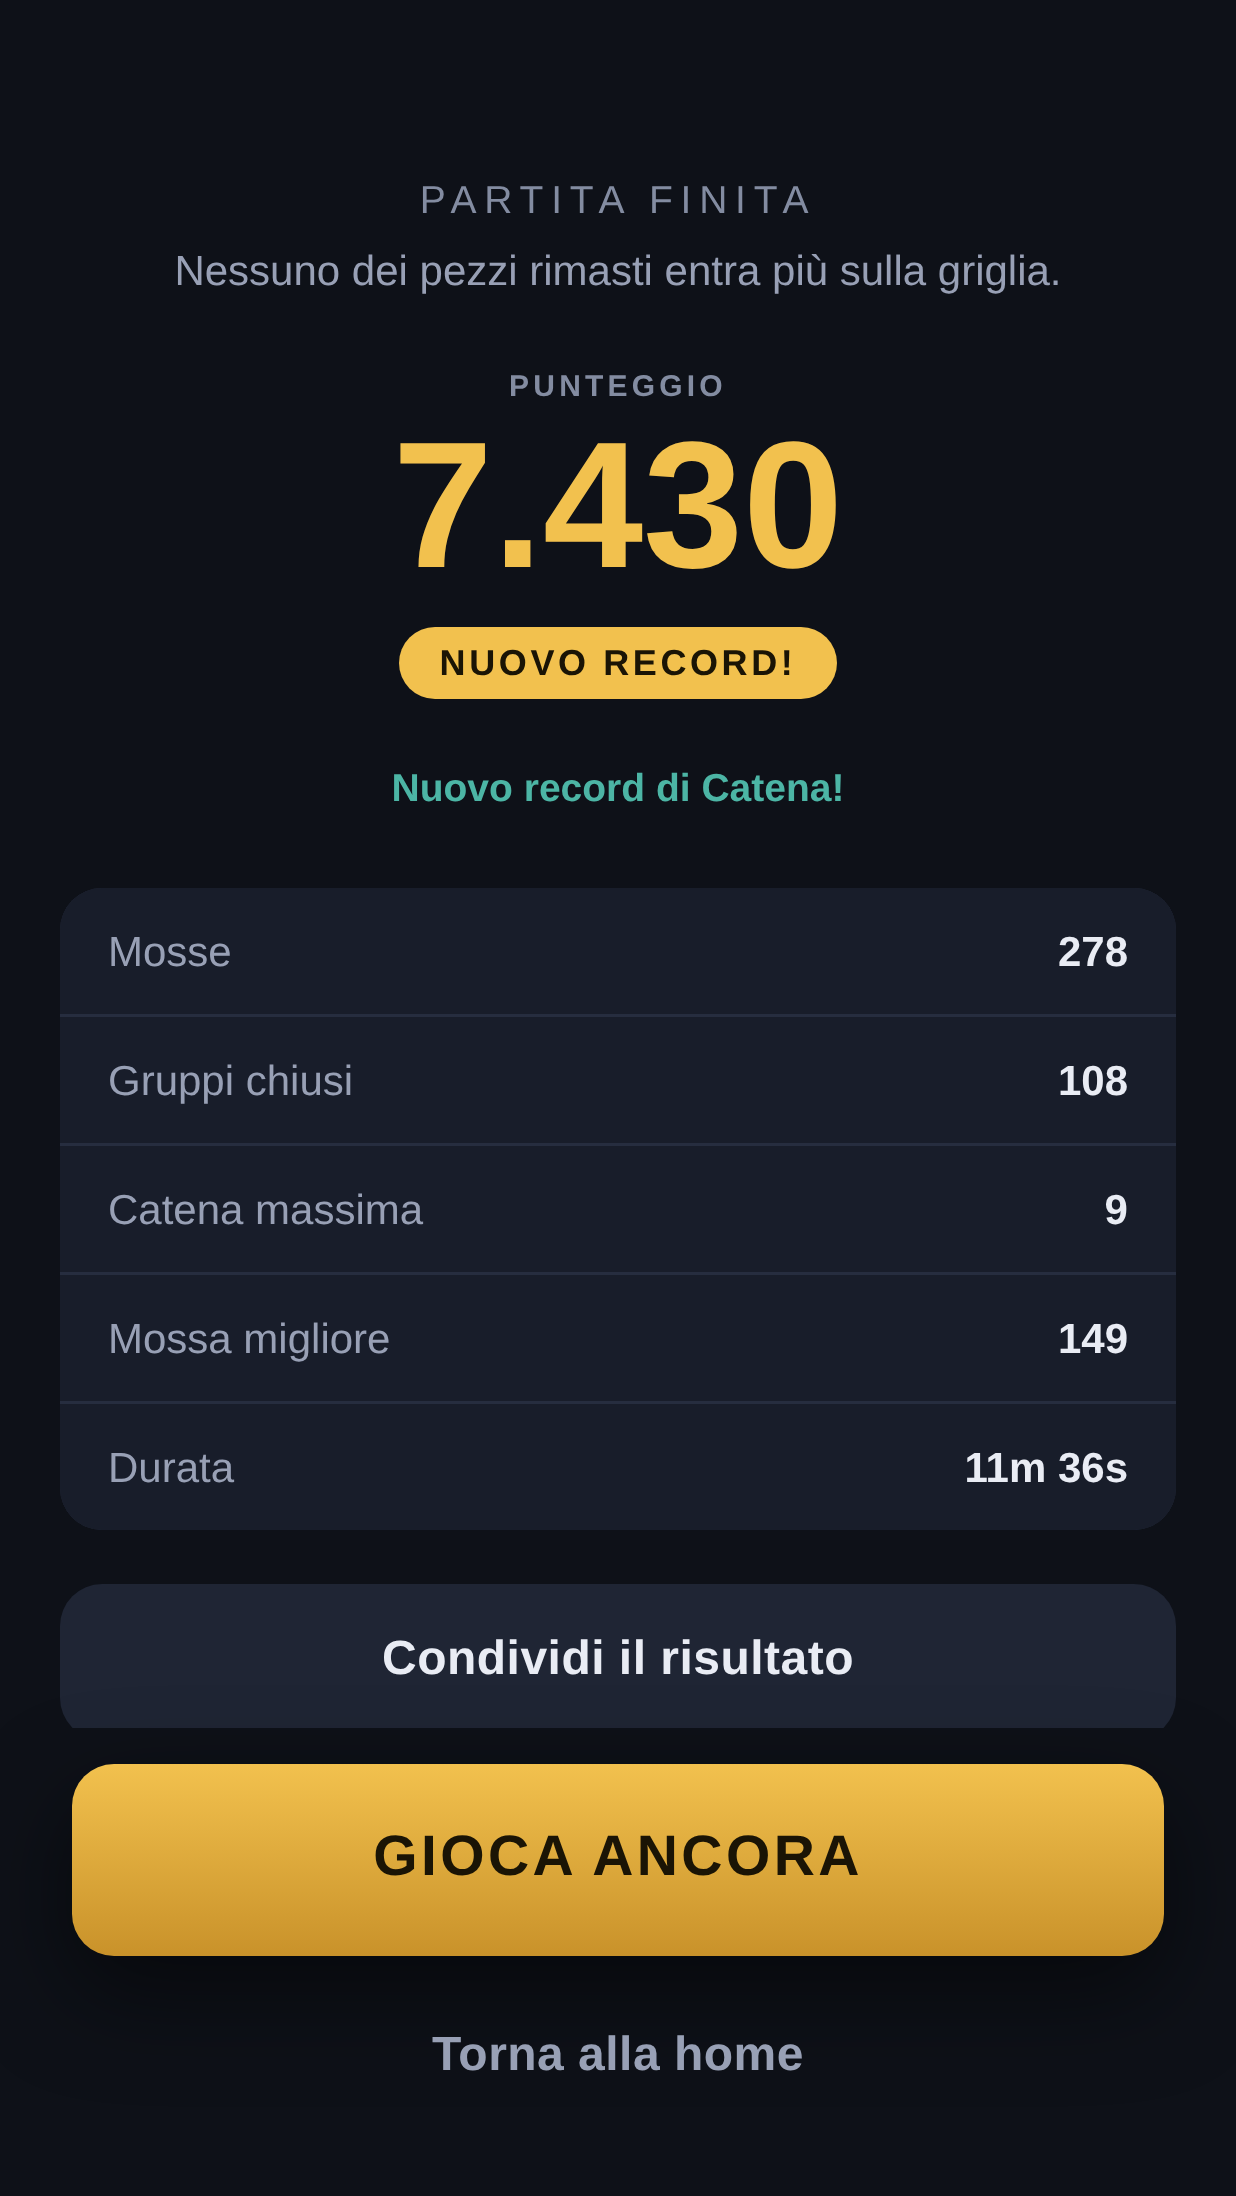
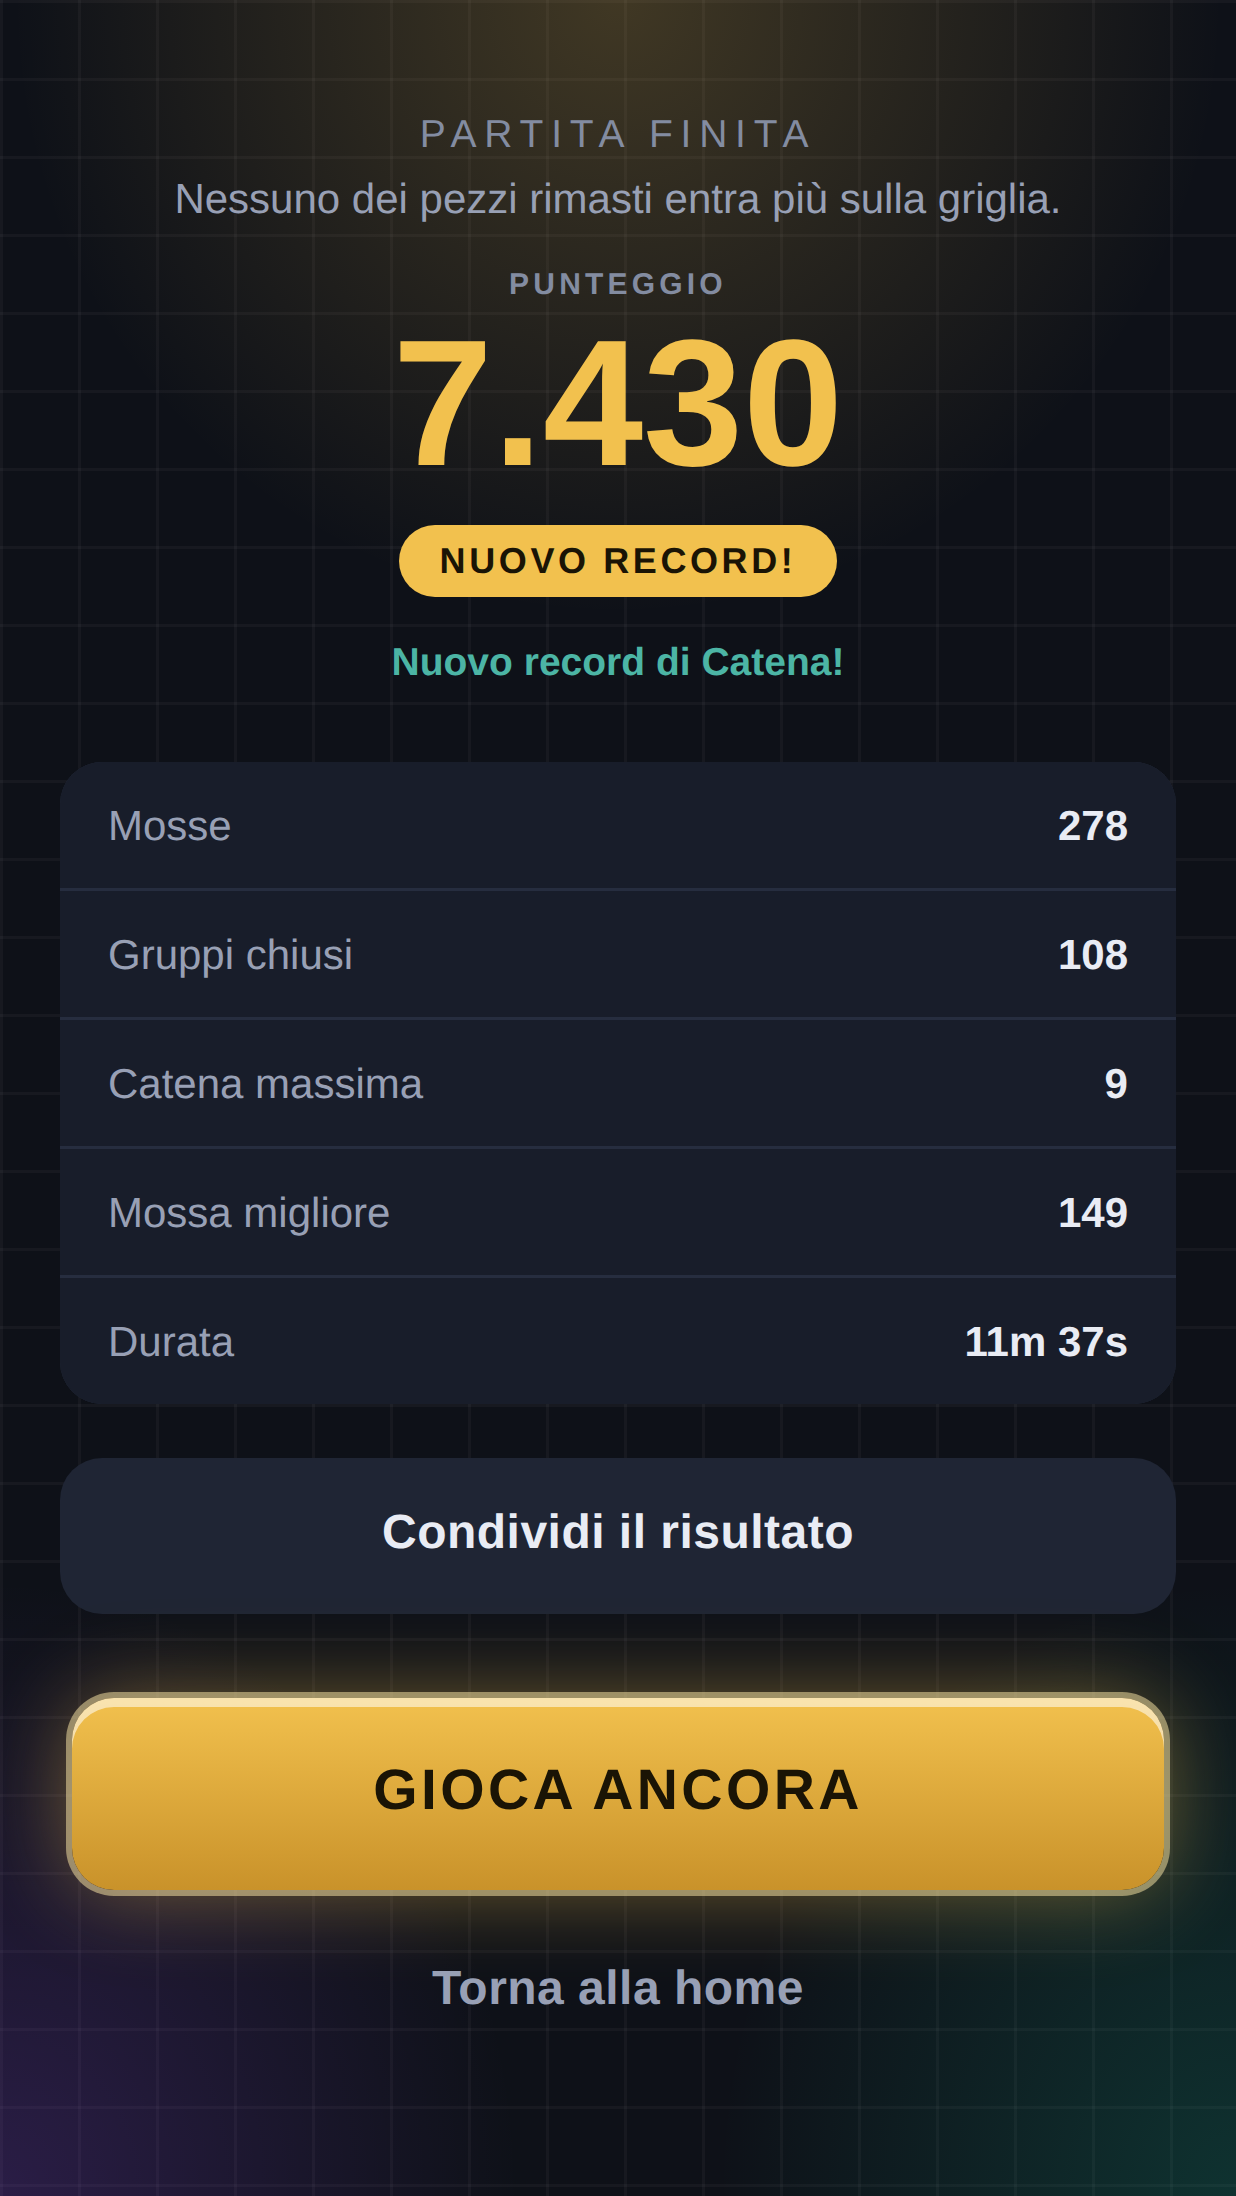
Scheda del Play Store per la 1.21.0: schermate con la grafica nuova e testi
- Otto schermate rigenerate sul Ponte; quella dell'Intreccio si scatta a orologio
  fermo (dal ramo della Torre) e lo strumento si ferma se la scritta manca.
- Descrizioni IT/EN: la regola dell'ultimo livello e l'Intreccio che si vede.
- Note di rilascio della 1.21.0, IT/EN, entro i 500 caratteri.

Claude-Session: https://claude.ai/code/session_01GFoFz1oYDGgk1JF4CCyFX7

diff --git a/android/SCHEDA-PLAY-STORE.md b/android/SCHEDA-PLAY-STORE.md
@@ -7,7 +7,9 @@ Scheda principale dello Store. Nomi delle voci letti dalla console dell'11 sette
 Google li rinomina ogni tanto. L'AAB invece sta sotto **Testa e rilascia**, ed e' un'altra
 revisione: aggiornare testi e immagini NON richiede un rilascio nuovo.
 
-**Stato dei testi.** Riscritti l'11 settembre 2026, con la versione 1.9.1. La stesura
+**Stato dei testi.** Ritoccati il 10 ottobre 2026 per la 1.21.0: la regola dell'ultimo
+livello (1.20.0) e l'Intreccio che ora si vede. Riscritti per intero l'11 settembre 2026,
+con la versione 1.9.1. I testi per l'uscita della Torre stanno sul ramo `opera-torre`. La stesura
 precedente era ferma a prima delle bombe, della Tinta, dell'anteprima della terna,
 dell'archivio delle sfide, delle statistiche e della condivisione: raccontava un gioco
 piu' piccolo di quello che si scarica. I cento livelli sono stati portati in apertura,
@@ -50,13 +52,13 @@ Righe, colonne e quadranti. Niente pubblicità, niente acquisti, niente conti.
 PLINTO è un puzzle a blocchi con una regola in più: oltre alle righe e alle colonne si eliminano anche i quadranti 3×3. Tre direzioni invece di due, e una mossa che ne chiude più di uno insieme vale molto di più.
 
 CENTO LIVELLI, MISURATI E NON INVENTATI
-I cento livelli formano un percorso in sette atti, dalle Fondamenta all'Ultima pietra. Ognuno ha un obiettivo dichiarato e un tetto di mosse, e dal quarto atto in poi alcuni ne chiedono due insieme. I bersagli non li ha scelti nessuno a occhio: ogni livello viene giocato venti volte da un giocatore simulato, deve riuscire almeno sei volte, e ogni atto ha una sua fascia di difficoltà, che sale lungo il percorso. Nessun livello è imbattibile. Se uno proprio non riesce, dopo otto tentativi il successivo si apre lo stesso, senza che il gioco finga che tu l'abbia superato.
+I cento livelli formano un percorso in sette atti, dalle Fondamenta all'Ultima pietra. Ognuno ha un obiettivo dichiarato e un tetto di mosse, e dal quarto atto in poi alcuni ne chiedono due insieme. I bersagli non li ha scelti nessuno a occhio: ogni livello viene giocato venti volte da un giocatore simulato, deve riuscire almeno sei volte, e ogni atto ha una sua fascia di difficoltà, che sale lungo il percorso. Nessun livello è imbattibile. Se uno proprio non riesce, dopo otto tentativi il successivo si apre lo stesso, senza che il gioco finga che tu l'abbia superato. Solo il centesimo non fa sconti: si apre quando hai superato tutti gli altri.
 
 GLI ATTREZZI DEL CANTIERE
 Sono quattro: la carriola cambia un pezzo della mano, il gessetto ti mostra dove conviene mettere un pezzo, il piccone svuota una casella occupata, la mensola mette da parte un pezzo per dopo. Per usarli servono i gettoni: nei livelli ne guadagni 1 ogni cinque livelli superati, e ne tieni al massimo tre. Con ogni gettone usi l'attrezzo che scegli tu, quando ti blocchi. Non si comprano: si guadagnano giocando.
 
 L'INTRECCIO
-Chiudere due o tre gruppi con un solo pezzo è la mossa che vale di più, ed è quella che il gioco esiste per insegnare.
+Chiudere due o tre gruppi con un solo pezzo è la mossa che vale di più, ed è quella che il gioco esiste per insegnare. Quando ci riesci, la plancia te lo fa vedere.
 
 LA CATENA
 Ogni mossa che elimina qualcosa fa salire un moltiplicatore che resta. Una mossa a vuoto non lo tocca; dalla seconda di fila scende di uno a ogni mossa. È una tolleranza dichiarata, non una regola nascosta.
@@ -85,7 +87,7 @@ Una volta installato si gioca offline.
 ACCESSIBILE
 Contrasti verificati secondo lo standard WCAG AA, gioco completo da tastiera, descrizioni per chi usa un lettore di schermo, e se nel telefono hai chiesto di ridurre le animazioni il gioco lo rispetta.
 ```
-*3218 caratteri su 4000. Aggiornata alla 1.19.4 (attrezzi e gettoni distinti: gli attrezzi sono i quattro strumenti, i gettoni sono quello che si guadagna); prima alla 1.19.1: soglia della Tinta (sette su nove, dalla 1.15.0), Catena contata in mosse, taratura a venti partite con fasce per atto (1.17.0), attrezzi del cantiere, animazioni che seguono il sistema invece di un interruttore.*
+*3342 caratteri su 4000. Ritoccata per la 1.21.0 (ultimo livello, Intreccio che si vede); prima aggiornata alla 1.19.4 (attrezzi e gettoni distinti: gli attrezzi sono i quattro strumenti, i gettoni sono quello che si guadagna); prima alla 1.19.1: soglia della Tinta (sette su nove, dalla 1.15.0), Catena contata in mosse, taratura a venti partite con fasce per atto (1.17.0), attrezzi del cantiere, animazioni che seguono il sistema invece di un interruttore.*
 
 ## In inglese (Play Console → Traduzioni)
 
@@ -113,13 +115,13 @@ A hundred levels, and 3×3 quadrants on top of rows and columns. No ads.
 PLINTO is a block puzzle with one extra rule: besides rows and columns, you also clear 3×3 quadrants. Three directions instead of two, and a move that closes more than one at once is worth far more.
 
 A HUNDRED LEVELS, MEASURED AND NOT INVENTED
-The hundred levels form a path in seven acts, from the Foundations to the Last Stone. Each has a stated goal and a move limit, and from the fourth act on, some ask for two at once. The targets were not picked by eye: every level is played twenty times by a simulated player, must come off at least six times, and each act has its own difficulty band, rising along the path. No level is unbeatable. If one really will not go, after eight attempts the next one opens anyway, without the game pretending you cleared it.
+The hundred levels form a path in seven acts, from the Foundations to the Last Stone. Each has a stated goal and a move limit, and from the fourth act on, some ask for two at once. The targets were not picked by eye: every level is played twenty times by a simulated player, must come off at least six times, and each act has its own difficulty band, rising along the path. No level is unbeatable. If one really will not go, after eight attempts the next one opens anyway, without the game pretending you cleared it. Only the hundredth makes no allowances: it opens once you have cleared all the others.
 
 THE SITE TOOLS
 There are four: the wheelbarrow swaps a piece in your hand, the chalk shows you where a piece fits best, the pickaxe empties a filled square, the shelf sets a piece aside for later. To use them you need tokens: in the levels you earn 1 every five levels cleared, and you can keep up to three. With each token you use whichever tool you pick, when you are stuck. They cannot be bought: you earn them by playing.
 
 THE INTERLACE
-Closing two or three groups with a single piece is the move that pays most, and it is the one the game exists to teach.
+Closing two or three groups with a single piece is the move that pays most, and it is the one the game exists to teach. When you pull it off, the board lets you see it.
 
 THE CHAIN
 Every move that clears something raises a multiplier that stays. One empty move leaves it alone; from the second in a row it drops by one with each move. That tolerance is stated, not hidden.
@@ -148,7 +150,24 @@ Once installed, it plays without a connection.
 ACCESSIBLE
 Contrast verified to the WCAG AA standard, full keyboard play, descriptions for people using a screen reader, and if you asked your phone to reduce motion, the game respects it.
 ```
-*3012 caratteri su 4000. Aggiornata alla 1.19.4.*
+*3148 caratteri su 4000. Ritoccata per la 1.21.0; prima aggiornata alla 1.19.4.*
+
+## Note di rilascio della 1.21.0 («Novità»)
+
+Si incollano nella release di produzione, non nella scheda, e servono solo se si carica
+un pacchetto nuovo: il gioco arriva gia' a tutti dal sito. Limite: **500 caratteri
+Unicode per lingua** (guida di Play Console, «Preparare e implementare una release»,
+letta il 9 ottobre 2026), ogni lingua fra i suoi tag.
+
+```
+<it-IT>
+PLINTO ha una veste nuova: blocchi lucidi, la plancia d'ottone, la home più chiara. E nuove animazioni: i blocchi spariscono a onda dal pezzo che hai appena messo, una scia di luce corre lungo ogni riga e colonna chiusa, e quando chiudi più gruppi con una mossa la plancia te lo dice. Chi ha chiesto meno animazioni al telefono non le vede.
+</it-IT>
+<en-US>
+PLINTO has a new look: glossy blocks, a brass board, a clearer home screen. And new animations: blocks clear in a wave from the piece you just placed, a streak of light runs along every row and column you close, and when one move closes several groups the board tells you. If you asked your phone for reduced motion, you will not see them.
+</en-US>
+```
+*Italiano 340 caratteri, inglese 339.*
 
 ## Categoria
 
@@ -215,7 +234,7 @@ nove immagini da 1170×2532 (rapporto 2,16): non sarebbero state accettate. Ades
 | 1 | `1-mappa-livelli.png` | Ci sono cento livelli e un percorso da fare, e la cassetta segna dove si guadagna un gettone per gli attrezzi. E' l'informazione che distingue PLINTO da un puzzle a blocchi infinito |
 | 2 | `2-apertura-livello.png` | Ogni livello ha un obiettivo dichiarato e un tetto di mosse: non si gioca a caso |
 | 3 | `3-livello.png` | Com'e' fatto un livello mentre lo giochi: l'obiettivo in cima, la prossima terna in vista, la cassetta degli attrezzi |
-| 4 | `4-eliminazione.png` | Il momento in cui la mossa va a segno: colore, particelle, punti |
+| 4 | `4-eliminazione.png` | Il momento in cui la mossa va a segno: l'Intreccio con la sua scritta, le scie di luce, le particelle, i punti |
 | 5 | `5-partita.png` | La partita libera, per chi vuole giocare senza obiettivi |
 | 6 | `6-fine-partita.png` | La fine dice il motivo e i numeri di una partita vera, e il pulsante per rigiocare e' sotto il pollice |
 | 7 | `7-statistiche.png` | Il gioco tiene traccia di come giochi, non solo di quanto hai fatto |
